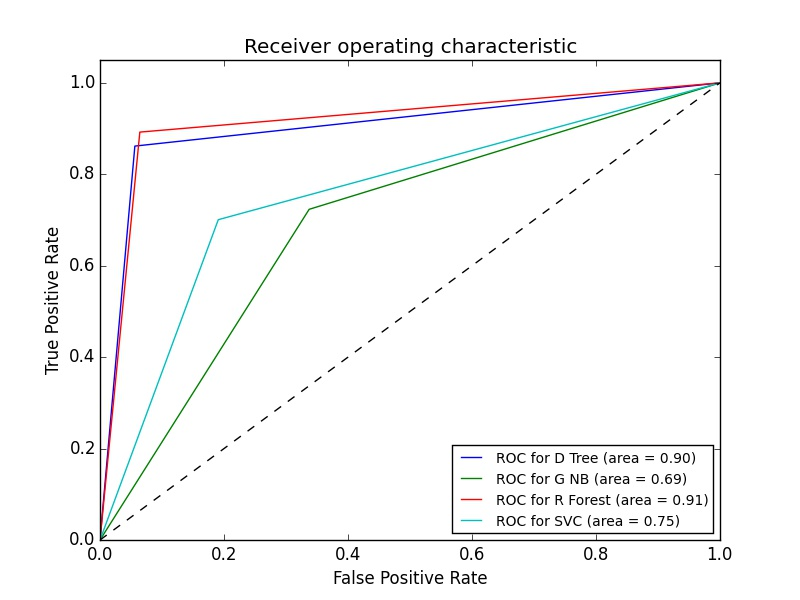
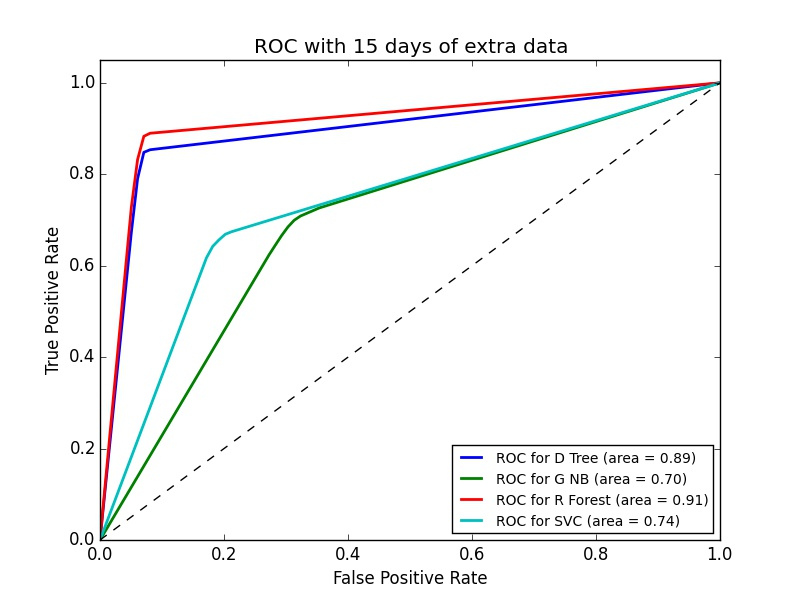
Correctly computes mean roc

diff --git a/capstone/west_nile/src/west_nile_model.py b/capstone/west_nile/src/west_nile_model.py
@@ -226,7 +226,7 @@ def last_week_weather(days_past):
 
 
 def cluster_locations():
-    traps = pd.read_csv('../input/train_weather_spray_appended.csv', verbose=True, parse_dates=['Date'])
+    traps = pd.read_csv('../input/train_weather_spray_appended.csv', parse_dates=['Date'])
 
     trap_loc = traps[['Longitude', 'Latitude']]
     traps = traps.drop('Latitude', 1)
@@ -267,7 +267,7 @@ def plot_roc_auc(clf, plt, traps, labels, name):
 
     mean_tpr = 0.0
     mean_fpr = np.linspace(0, 1, 100)
-    all_tpr = []
+    mean_accuracy = 0
 
     for train_indices, test_indices in kf:
 
@@ -284,25 +284,21 @@ def plot_roc_auc(clf, plt, traps, labels, name):
         mean_tpr += interp(mean_fpr, fpr, tpr)
         mean_tpr[0] = 0.0
 
-        roc_auc = auc(fpr, tpr)
-        label = 'ROC for ' + name +' (area = %0.2f)'
-        plt.plot(fpr, tpr, label=label % roc_auc)
-
-        # print features_train.head(2)
-
         from sklearn.metrics import accuracy_score
-        print accuracy_score(labels_test, pred)
-        print accuracy_score(labels_test, pred)
-        return plt
+        mean_accuracy += accuracy_score(labels_test, pred)
 
+    print name, mean_accuracy / len(kf)
+    label = 'ROC for ' + name +' (area = %0.2f)'
     mean_tpr /= len(kf)
     mean_tpr[-1] = 1.0
     mean_auc = auc(mean_fpr, mean_tpr)
-    plt.plot(mean_fpr, mean_tpr, 'k--',label='Mean ROC (area = %0.2f)' % mean_auc, lw=2)
+    plt.plot(mean_fpr, mean_tpr,
+             label=label % mean_auc, lw=2)
+    return plt
 
 
 def roc_auc(file_num):
-    traps = pd.read_csv('../input/train_weather_spray_clustered.csv', verbose=True)#, parse_dates=['Date'])
+    traps = pd.read_csv('../input/train_weather_spray_clustered.csv')
 
     # extract label
     labels = traps['WnvPresent']
@@ -314,12 +310,13 @@ def roc_auc(file_num):
     from sklearn.naive_bayes import GaussianNB
     from sklearn.svm import SVC
 
-    clf_rf = RandomForestClassifier(n_estimators=100, verbose=1)
+    clf_rf = RandomForestClassifier(n_estimators=100)
     clf_nb = GaussianNB()
     clf_svc = SVC(kernel='linear', C=1000.0)
     clf_dt = tree.DecisionTreeClassifier(criterion='gini',min_samples_split=100)
     # Compute ROC curve and ROC area for each class
     import matplotlib.pyplot as plt
+    plt.clf()
     plt = plot_roc_auc(clf_dt, plt, traps, labels,'D Tree')
     plt = plot_roc_auc(clf_nb, plt, traps, labels,'G NB')
     plt = plot_roc_auc(clf_rf, plt, traps, labels,'R Forest')
@@ -332,23 +329,26 @@ def roc_auc(file_num):
     plt.ylim([0.0, 1.05])
     plt.xlabel('False Positive Rate')
     plt.ylabel('True Positive Rate')
-    plt.title('Receiver operating characteristic')
+    title = 'ROC with ' + str(file_num) + ' days of extra data'
+    plt.title(title)
     plt.legend(loc="lower right", prop = fontP)
     # plt.show()
     file_name = '../plots/Week_Weather_Stratified#' + str(file_num) + '.jpg'
     plt.savefig(file_name)
 
 if __name__ == '__main__':
-    days_past = 20
     # clean_train()
     # print "Cleaned train..."
     # clean_weather()
     # print "Cleaned weather..."
     # merge_files()
     # print "Merged train, weather, spray"
-    last_week_weather(days_past)
-    print "Added ", str(days_past), " days of past weather"
-    cluster_locations()
-    print "Clustered data..."
-    roc_auc(days_past)
+
+    days_past = [5,7,10,15,20]
+    for day in days_past:
+        last_week_weather(day)
+        print "Added ", str(day), " days of past weather"
+        cluster_locations()
+        print "Clustered data..."
+        roc_auc(day)
 
